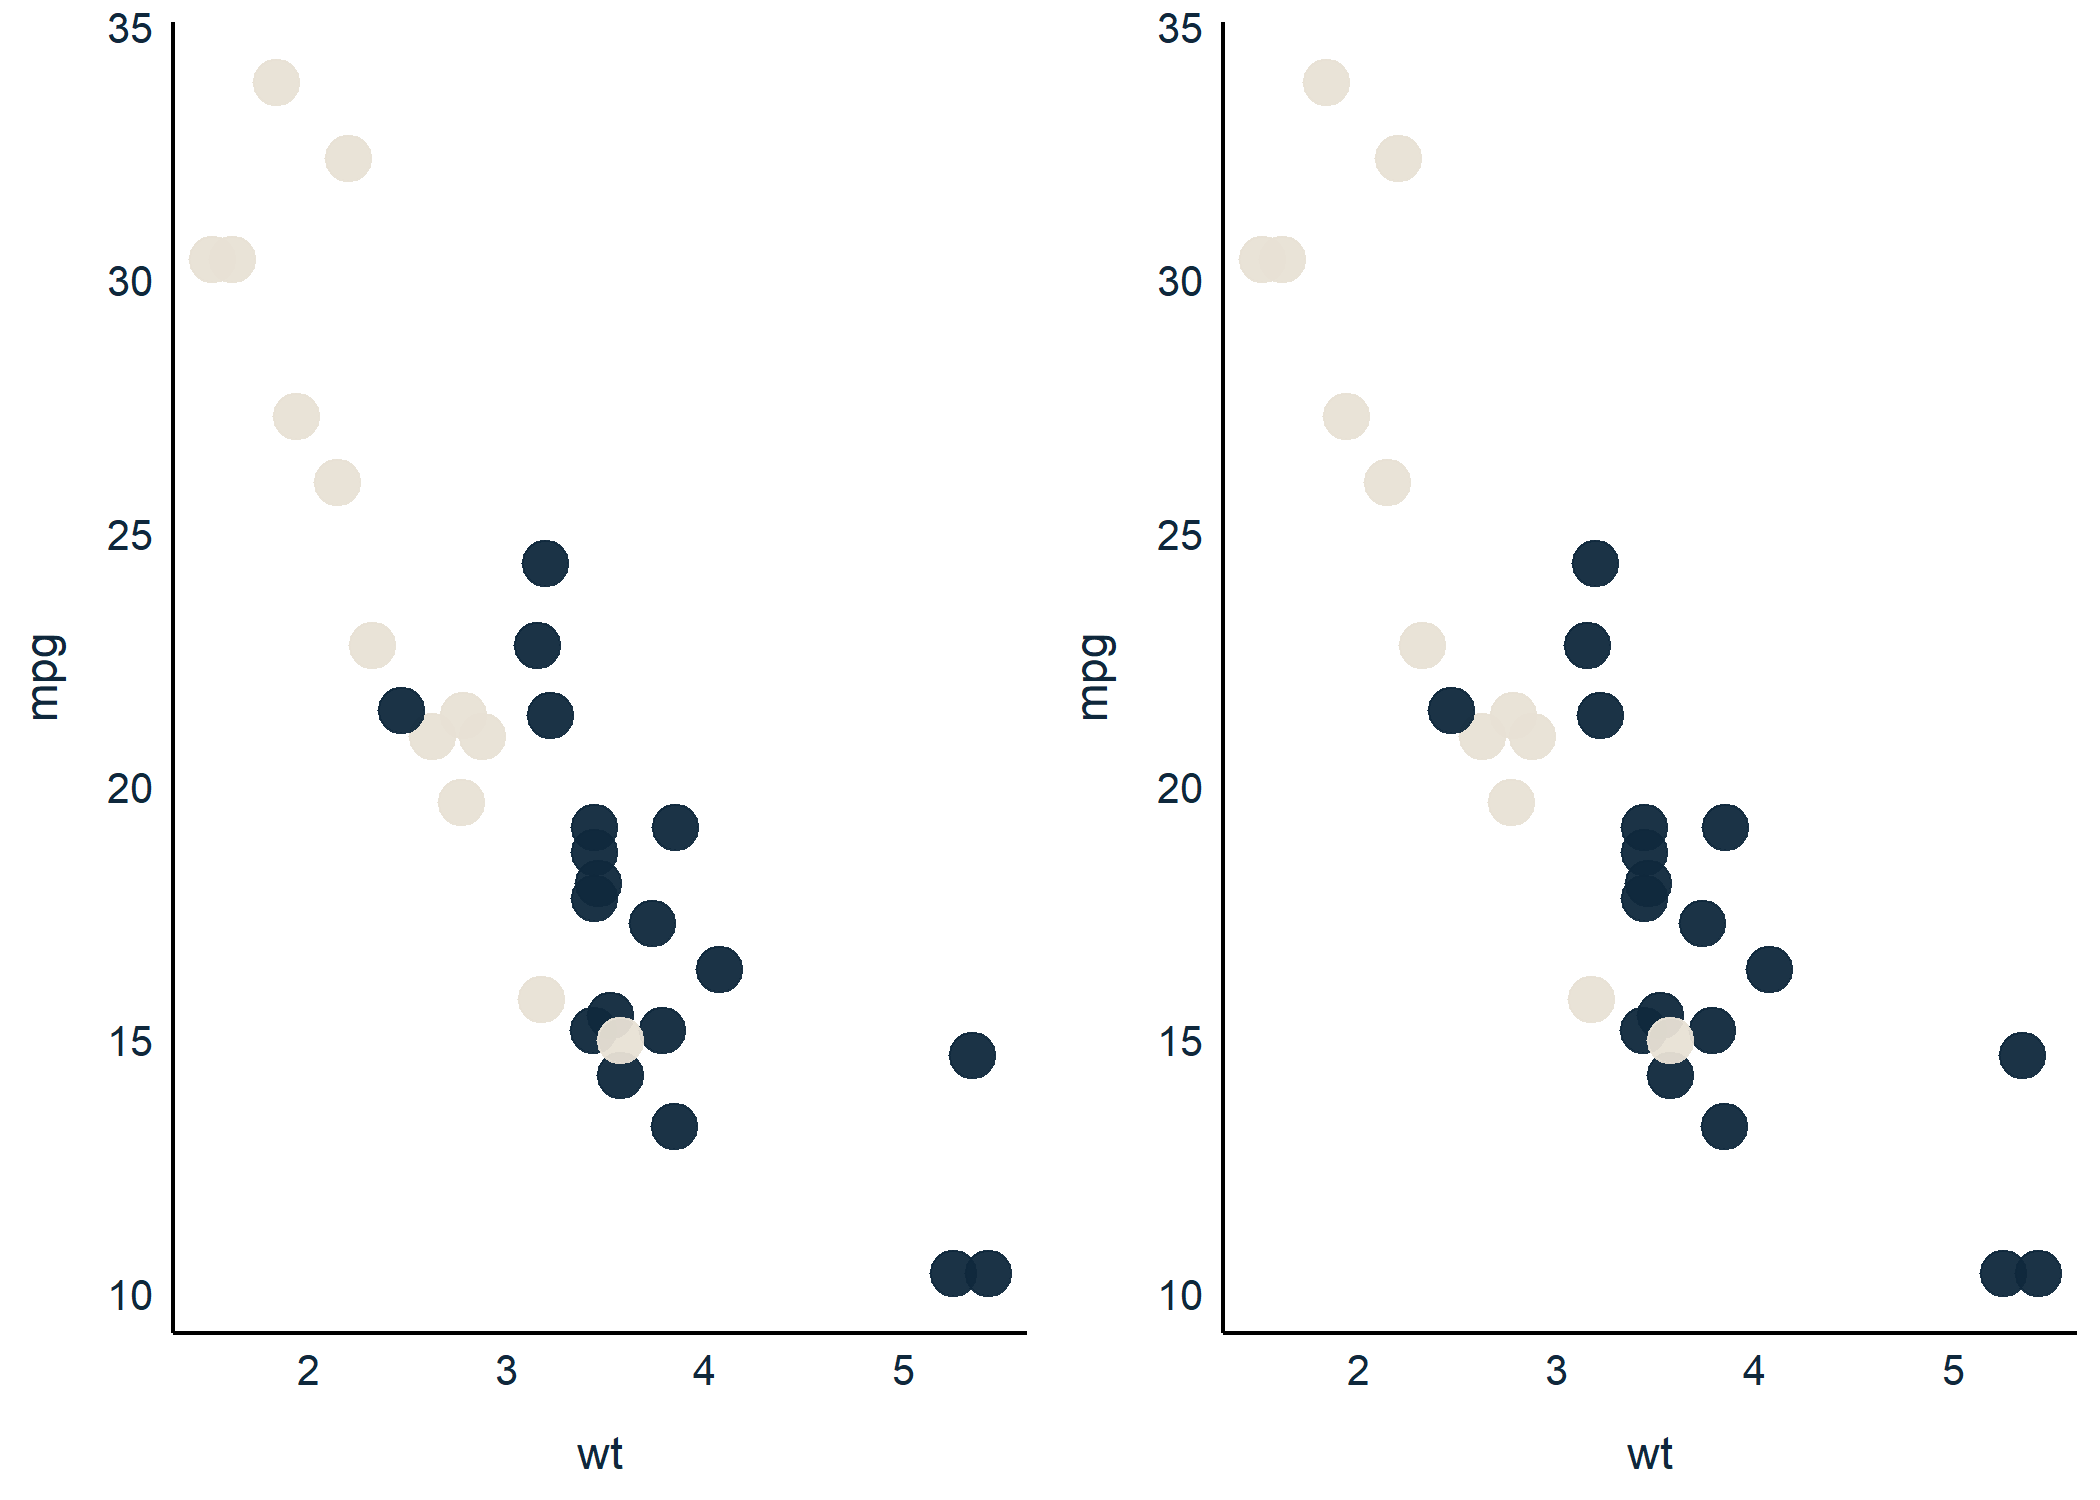
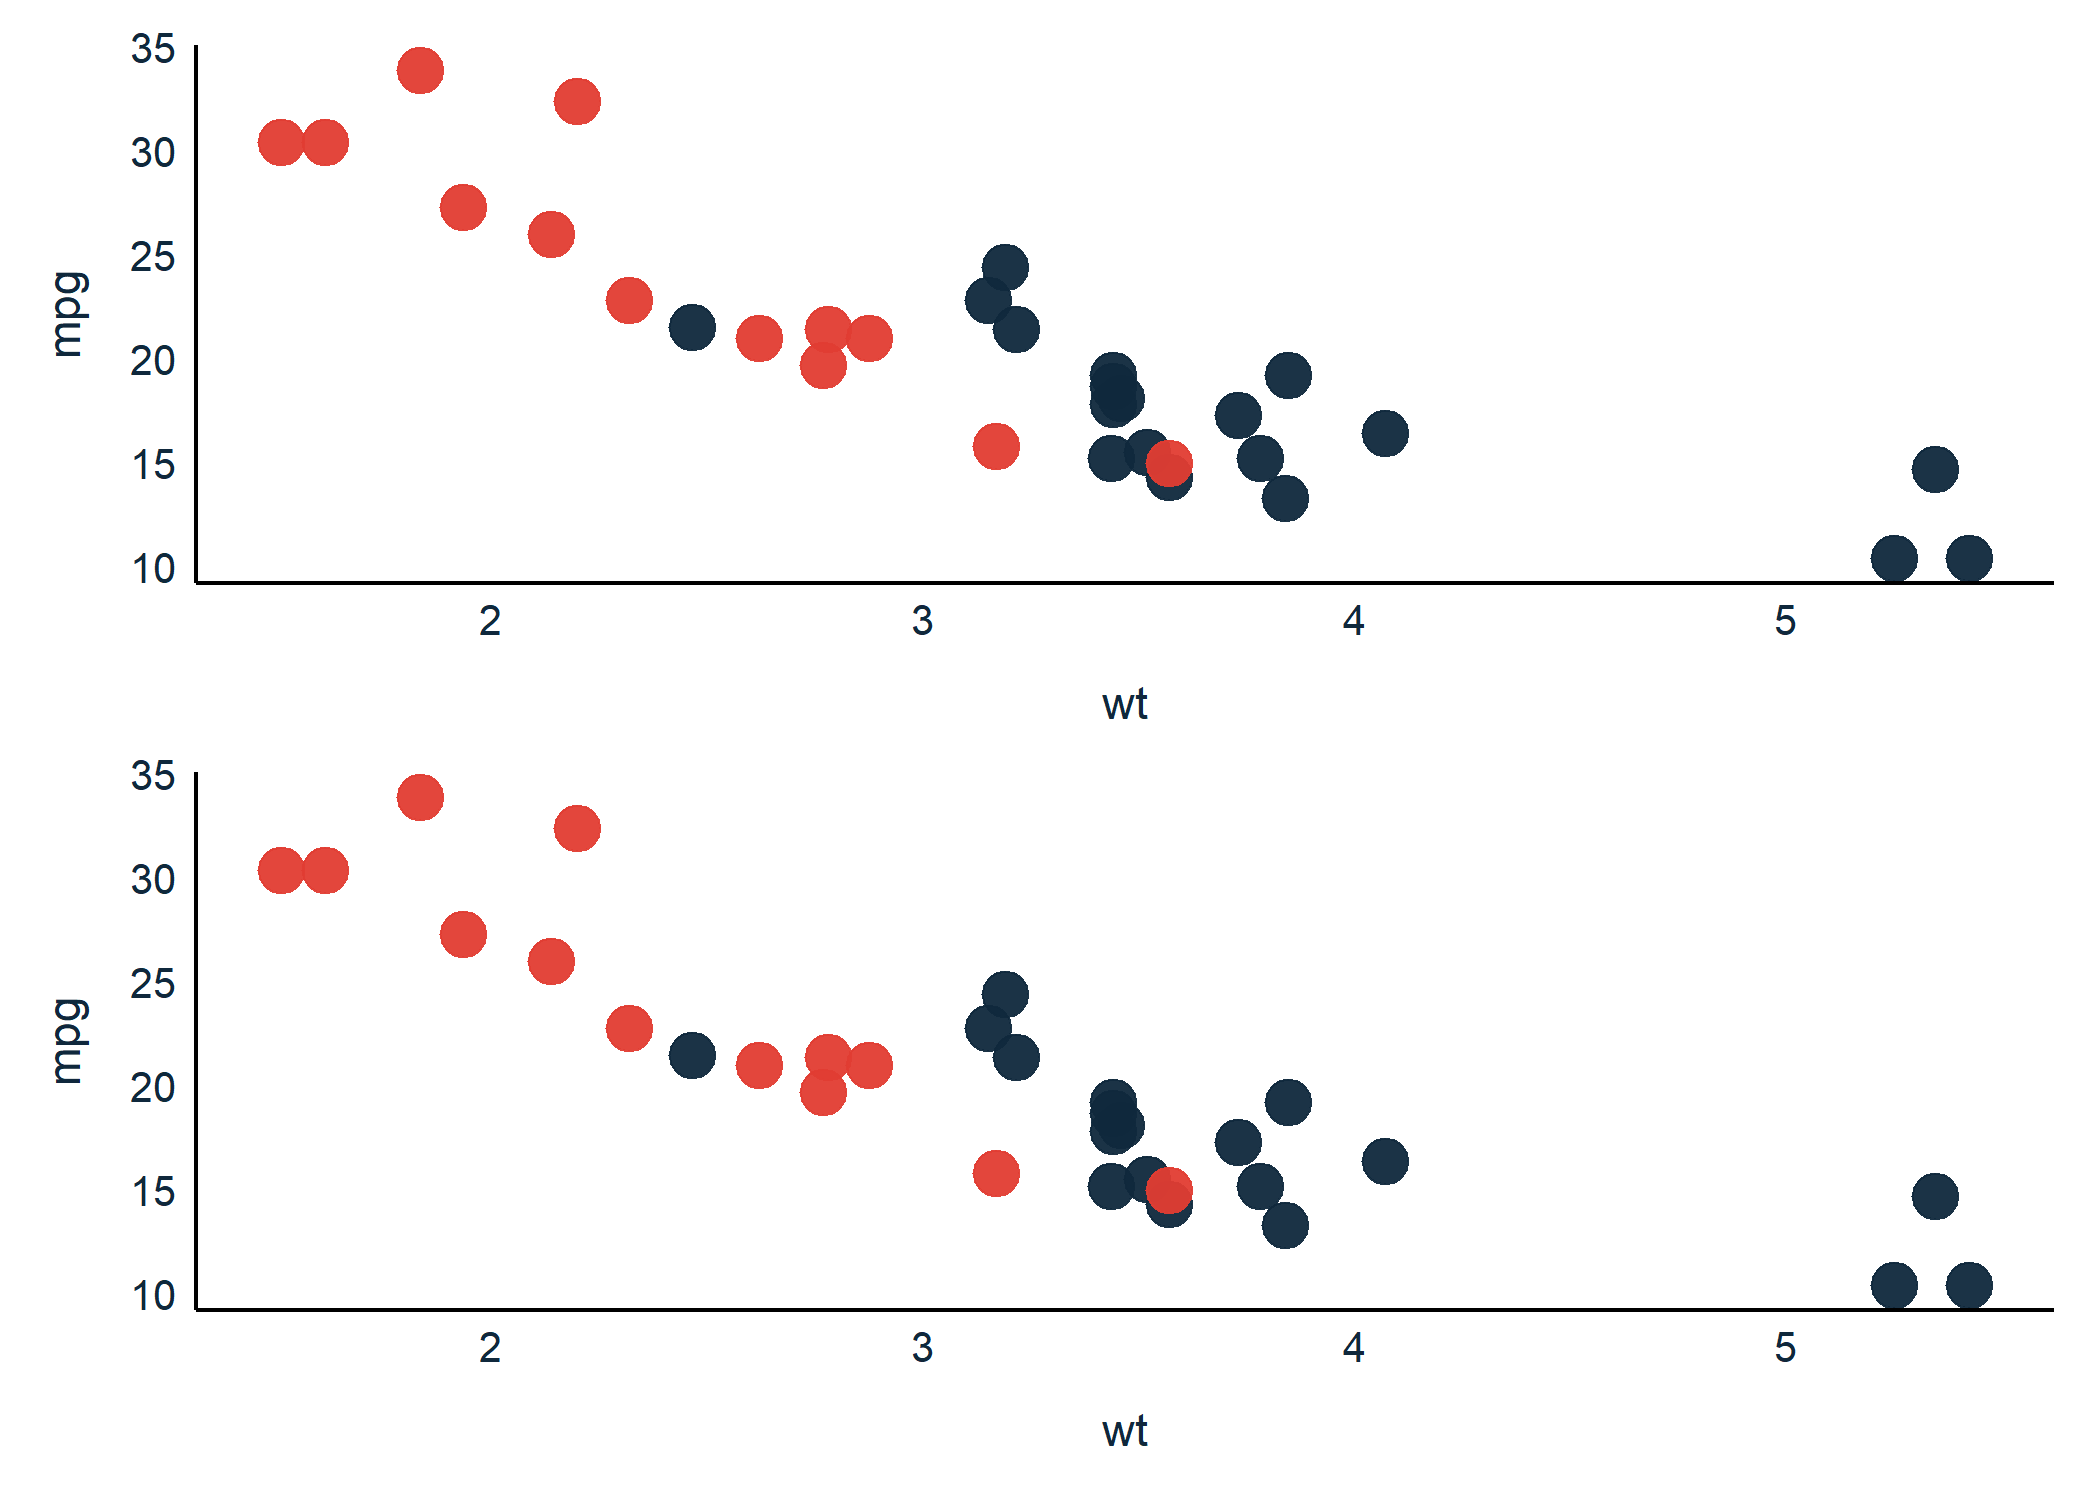
new readme

diff --git a/README.md b/README.md
@@ -94,10 +94,10 @@ ggplot(mtcars, aes(x = wt,
 
 <img src="man/figures/README-unnamed-chunk-2-1.png" width="85%" style="display: block; margin: auto;" />
 
-Evidently, `epitheme_classic()` only impacts `ggplot2::theme()` elements
-and not the aesthetics of your actual plot. We can override `theme()`
-elements inherent to `repinion::epitheme_classic()` by specifying this
-in `theme(...)` **afterwards**.
+Evidently, `epitheme_*()` only impacts `ggplot2::theme()` elements and
+not the aesthetics of your actual plot. We can override `theme()`
+elements inherent to `repinion::epitheme_*()` by specifying this in
+`theme(...)` **afterwards**.
 
 ## The **Epinion** color palette
 
@@ -129,22 +129,23 @@ HEX codes provided by `getcols_epi()` directly or (2) by pasting the
 names into the `base::getElement()` function:
 
 ``` r
-library(gridExtra)
 
 # use the HEX codes directly
 p1 <- ggplot(mtcars, aes(x = wt, y = mpg, color = factor(am))) +
   geom_point(size = 5, alpha = .95) +
   epitheme_classic(legend = F) +
-  scale_color_manual(values = c("#0F283C", "#E8E1D5"))
+  scale_color_manual(values = c("#0F283C", "#E13C32"))
 
 # use the color names
 p2 <- ggplot(mtcars, aes(x = wt, y = mpg, color = factor(am))) +
   geom_point(size = 5, alpha = .95) +
   epitheme_classic(legend = F) +
   scale_color_manual(values = c(getElement(getcols_epi(), "Epinion DarkBlue"),
-                                getElement(getcols_epi(), "Epinion WarmSand")))
+                                getElement(getcols_epi(), "Epinion Red")))
 
-grid.arrange(p1, p2, ncol = 2) ; rm(p1, p2)
+
+library(patchwork)
+(p1 / p2)
 ```
 
 <img src="man/figures/README-unnamed-chunk-4-1.png" width="85%" style="display: block; margin: auto;" />
@@ -194,12 +195,21 @@ p4 <- ggplot(mtcars, aes(x = wt, y = mpg, fill = disp)) +
   epitheme_classic(legend = F, gridlines = "y") +
   fill_epi_c(reverse = T)
 
-grid.arrange(p1, p2, p3, p4, ncol = 2) ; rm(p1, p2, p3, p4)
+library(patchwork)
+(p1 + p2) /
+  (p3 + p4) + 
+  plot_annotation(theme = 
+                    theme(plot.background = 
+                            element_rect(color = NA,
+                                         fill = getElement(getcols_epi(), "Epinion WarmSand"),
+                                         )
+                          )
+                  )
 ```
 
 <img src="man/figures/README-unnamed-chunk-5-1.png" width="85%" style="display: block; margin: auto;" />
 
-#### Additional options: `*_epi_d()`
+#### Additional arguments: `*_epi_d()`
 
   - When mapping `color_epi_d()` or `fill_epi_d()` to a variable with
     **only two levels**, you can manually choose colors with the
@@ -207,13 +217,24 @@ grid.arrange(p1, p2, p3, p4, ncol = 2) ; rm(p1, p2, p3, p4)
   - `repinion` contains two different discrete color palettes: `main`
     and `usered`. The latter includes Epinion Red
 
-#### Additional options: `*_epi_c()`
+#### Additional arguments: `*_epi_c()`
 
   - `repinion` contains six different continuous color palettes:
     `epiblue`, `epipurple`, `epigreen`, `epigold`, `epiredblue`, and
     `epidarkblue`.
   - You choose between these with the `palette` option in
     `color_epi_c()` and `fill_epi_c()`
+
+#### Additional arguments
+
+Notice that `*_epi_c()` and `*_epi_d()` inherently calls
+`ggplot2::scale_*_gradientn()` and `ggplot2::discrete_scale()`,
+respectively. For that reason, additional arguments, such as `guide`,
+also apply. See
+[`ggplot2::scale_colour_gradientn()`](https://tidyverse.github.io/ggplot2-docs/reference/scale_gradient.html "Gradient colour scales")
+and
+[`ggplot2::discrete_scale()`](https://ggplot2.tidyverse.org/reference/discrete_scale.html "Discrete scale constructor")
+for details on additional arguments.
 
 # Acknowledgements
 
